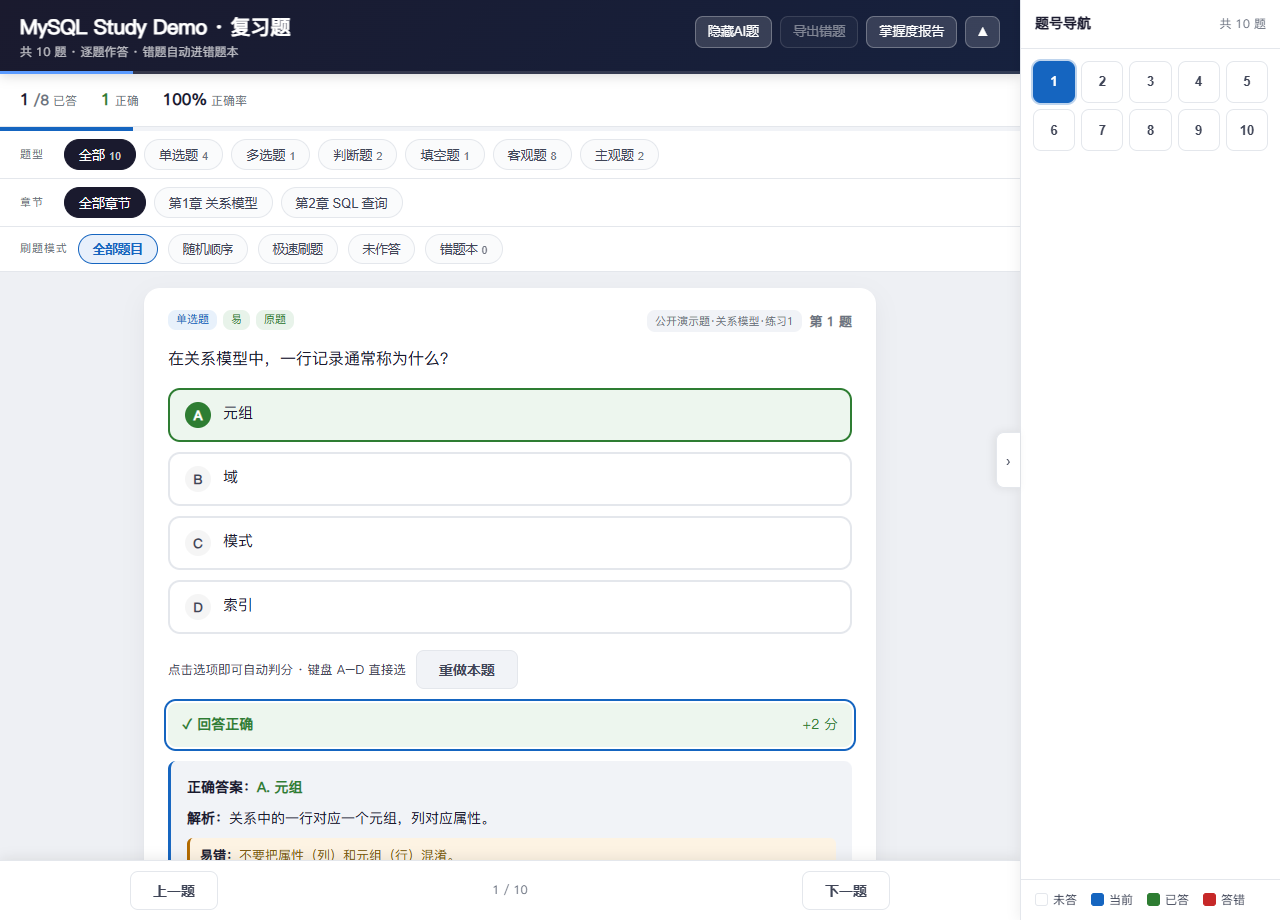
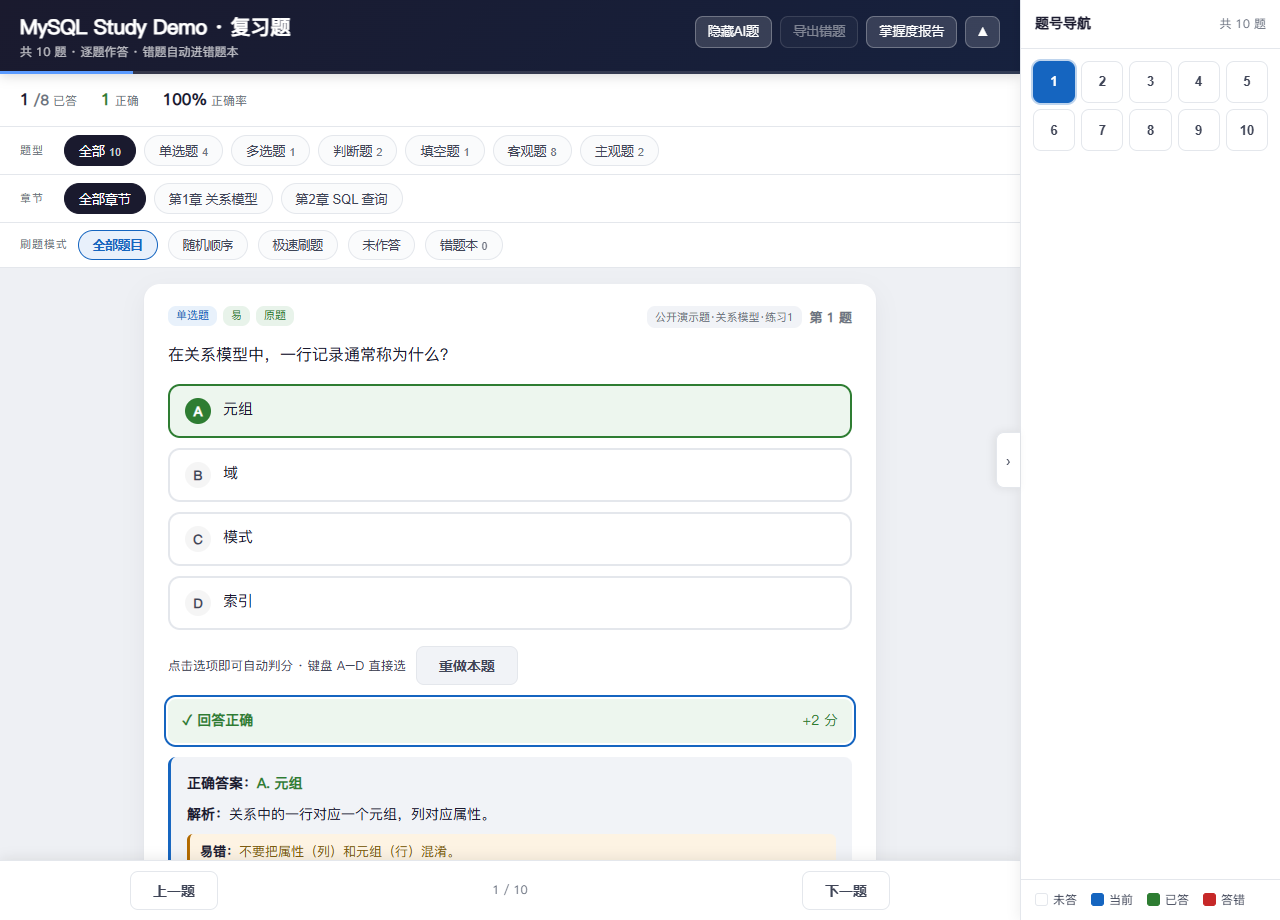
fix(quiz): 合并重复的做题进度线，只留顶栏底部那条常驻细线
统计条下方原本还有一条 4px 进度条，和本轮新加的 header 底部常驻细线表达同一份数据（已答/客观题总数），同屏出现两条线。
现在删掉统计条下方那条：header 细线滚动与折叠后都可见，信息量不丢，页面也少一条噪音线。

diff --git a/scripts/render_quiz.py b/scripts/render_quiz.py
@@ -142,10 +142,7 @@ body.fast .quiz-top { position: sticky; top: 0; z-index: 120; background: #fff; 
 .stat-item.clickable { cursor: pointer; border-radius: var(--r-sm); padding: 2px 6px; margin: -2px -6px; transition: background .14s var(--ease); }
 .stat-item.clickable:hover { background: var(--line-2); }
 
-/* ── 进度条 ── */
-.progress { height: 4px; background: var(--line-2); }
-.progress i { display: block; height: 100%; width: 0; background: var(--accent2); transition: width .24s var(--ease); }
-
+/* 做题进度只留顶栏底部那一条常驻细线（收起/滚动时也在），不再另设第二条进度条 */
 /* ── 筛选行（题型／章节）：左侧分组标签 + 右侧可横滚的胶囊条 ── */
 .nav-row { position: relative; display: flex; align-items: center; background: #fff; border-bottom: 1px solid var(--line); }
 .nav-label { flex: none; padding: 0 8px 0 20px; font-size: 11px; letter-spacing: .08em; color: var(--muted); }
@@ -735,7 +732,6 @@ def render(quiz: dict) -> str:
         '<div class="stat-item green zero"><span class="num" id="statRight">0</span><span class="lbl">正确</span></div>'
         '<div class="stat-item zero"><span class="num" id="statRate">—</span><span class="lbl">正确率</span></div>'
         '</div>',
-        f'<div class="progress"><i id="progressFill"></i></div>',
         f'<div class="nav-row"><span class="nav-label">题型</span><div class="nav">{"".join(type_tabs)}</div></div>',
         f'<div class="nav-row"><span class="nav-label">章节</span><div class="nav chapter-nav">{"".join(chapter_tabs)}</div></div>',
         '<div class="mode-bar">'
@@ -1164,7 +1160,6 @@ function updateStats(){
   var wc = document.getElementById('wrongCnt'); if(wc) wc.textContent = wrong;
   var eb = document.getElementById('exportWrongBtn'); if(eb) eb.disabled = (wrong===0);
   var pct = objTotal?Math.round(done/objTotal*100):0;
-  var pf = document.getElementById('progressFill'); if(pf) pf.style.width = pct + '%';
   var hp = document.getElementById('headerProgress'); if(hp) hp.style.width = pct + '%';
   paintPanelCells();
 }

diff --git a/SKILL.md b/SKILL.md
@@ -201,7 +201,7 @@ python <skill目录>/scripts/render_graph.py <资料目录>
 | 脚本 | 产物 | 内容 |
 |---|---|---|
 | render_outline.py | `<课程名>-知识清单.html` | Claude 式杂志感双栏：暖奶油纸底 + 单一珊瑚 accent，衬线大标题（Georgia）+ 无衬线正文；左 sticky sidebar（两级目录、滚动同步高亮 **且左栏自动滚到激活项**、可拖拽 180–560px、可折叠成 60px 章节色点导航）+ 右正文；正文宽度随右区可用宽度自适应（Ctrl+滚轮缩放不跳偏、不横向溢出）；章节标题 = 衬线编号 + 细分隔线（零大色块）；知识点挂四色**色点胶囊标签**（必考/重点/高频/了解，无 emoji）；**content 里的 **术语** 渲染为墨色加粗**；importance=must 知识点 = 珊瑚左细线 + 浅珊瑚底 + 左上角「必考考点」微标；顶部 sticky 阅读进度条 + 回顶按钮 + stagger reveal 动效；章末折叠自测（selftests）；右栏阅读区 GPT 式排版：正文 17px/行高 2.0、墨色正文，content 里的「；」并列要点自动拆成带圆点的逐条列表、段间明显留白，行内 code 用浅灰底等宽、代码块加大内边距 |
-| render_quiz.py | `<课程名>-复习题.html` | 刷题 App 风：深色 header（右上角 ▲/▼ 可折叠顶部栏）+ 统计条/进度条 + 题型 tab（固定 单选/多选/判断/填空/客观题/主观题，客观在前主观在后，0 道也占位；与章节行同用「题型/章节」分组标签，横向可滚且能滚时右缘渐隐提示）+ **章节 tab（显示真实章节名；questions.json 缺 label 时按 id 从 knowledge_skeleton 补齐，不再显示 ch1/ch2；章节名多放不下时鼠标滚轮可横向滚动、滚动条保持隐藏）** + 刷题模式（全部题目/随机顺序/极速刷题/未作答/错题本；**极速刷题**一次把当前筛选题目整页列出、下滑就地作答、顶栏常驻，不必点“下一题”）；单题视图逐题判对错、高亮答案、显示解析与易错点（单选/判断点选项即自动判分；**填空题空位兼容 `___` 与中文 `【】`，空位不足或题干没写空位时自动在题干下方补足输入框，使输入框数不少于答案数**）；做错的题自动进「错题本」可重刷、顶栏「导出错题」按钮可一键下载仅含错题的离线 HTML（受去AI影响，无错题时禁用；导出与打印均不含题号导航与重做按钮）；顶部深色栏右侧提供「隐藏AI题/恢复AI题/无AI题」三态切换（一键隐藏/恢复 AI 生成题）与「掌握度报告」入口；统计条为「已答 x/总数 · 正确 · 正确率」（点「已答」即打开掌握度报告；正确率未作答时显示 —，0 值转灰）；顶栏底部常驻一条完成度细线，顶栏折叠后标题下出现「题型 · 章节 · 模式」筛选摘要胶囊，滚动或收起后仍知道当前筛的是什么；主观题一键看参考答案、提交后显示蓝底「已记录，可对照下方参考答案」确认条（不判对错）；多选题作答区实时显示「已选 n 项」；未作答模式下答完一题即从列表移出（含主观题），答完最后一题显示「题目已全部作答」；答题后出现「重做本题」可撤销该题记录重新作答（错题本/未作答模式改对或撤销后列表自动重建）；每张卡答完结果条自动进入视野（不重复打扰）；「掌握度报告」按知识点聚合得分率标薄弱、以弹窗形式展示；**右侧可折叠「题号导航」答案卡**（列出去AI×题型×章节 命中的题并连续重编号 1..N，卡片「第 N 题」同步重排；四色状态：未答/当前/已答/答错 + 底部图例；点号跳到该题——错题本/未作答等模式不含该题时自动切回「全部题目」再跳，极速刷题模式滚动定位并高亮；PC 贴右常驻可折叠、展开时页面内容让位不遮挡，移动端右侧滑出抽屉 + 遮罩、点号跳转后自动收起；开合状态记入 localStorage）；题号格带 aria-label；选项支持 roving tabindex（方向键组内移焦点、Enter/Space 等同点击，aria-checked 同步）与字母/数字快捷键（A–H、1–9 直接选答，判断题另支持 T/F；单选/判断点完即判分，多选可连按切换）、填空输入框回车即提交；未作答就点提交时在题卡内就地提示（不再 alert 打断），单题视图不再在卡片与底部栏重复两个「提交答案」；空筛选显示标题 + 「清空筛选」出口；页面隐藏滚动条但保留滚动，并在滚动超过一屏后于右下角浮出「回到顶部」按钮（避开底部栏；PC 题号导航展开时自动让位，窄屏位于抽屉遮罩之下）；Ctrl+P 打印时全部题目+答案+解析展开、导出错题与打印均不含该面板 |
+| render_quiz.py | `<课程名>-复习题.html` | 刷题 App 风：深色 header（右上角 ▲/▼ 可折叠顶部栏）+ 统计条 + 题型 tab（做题进度全页只留 header 底部那一条常驻细线，不再另设第二条进度条）（固定 单选/多选/判断/填空/客观题/主观题，客观在前主观在后，0 道也占位；与章节行同用「题型/章节」分组标签，横向可滚且能滚时右缘渐隐提示）+ **章节 tab（显示真实章节名；questions.json 缺 label 时按 id 从 knowledge_skeleton 补齐，不再显示 ch1/ch2；章节名多放不下时鼠标滚轮可横向滚动、滚动条保持隐藏）** + 刷题模式（全部题目/随机顺序/极速刷题/未作答/错题本；**极速刷题**一次把当前筛选题目整页列出、下滑就地作答、顶栏常驻，不必点“下一题”）；单题视图逐题判对错、高亮答案、显示解析与易错点（单选/判断点选项即自动判分；**填空题空位兼容 `___` 与中文 `【】`，空位不足或题干没写空位时自动在题干下方补足输入框，使输入框数不少于答案数**）；做错的题自动进「错题本」可重刷、顶栏「导出错题」按钮可一键下载仅含错题的离线 HTML（受去AI影响，无错题时禁用；导出与打印均不含题号导航与重做按钮）；顶部深色栏右侧提供「隐藏AI题/恢复AI题/无AI题」三态切换（一键隐藏/恢复 AI 生成题）与「掌握度报告」入口；统计条为「已答 x/总数 · 正确 · 正确率」（点「已答」即打开掌握度报告；正确率未作答时显示 —，0 值转灰）；顶栏底部常驻一条完成度细线，顶栏折叠后标题下出现「题型 · 章节 · 模式」筛选摘要胶囊，滚动或收起后仍知道当前筛的是什么；主观题一键看参考答案、提交后显示蓝底「已记录，可对照下方参考答案」确认条（不判对错）；多选题作答区实时显示「已选 n 项」；未作答模式下答完一题即从列表移出（含主观题），答完最后一题显示「题目已全部作答」；答题后出现「重做本题」可撤销该题记录重新作答（错题本/未作答模式改对或撤销后列表自动重建）；每张卡答完结果条自动进入视野（不重复打扰）；「掌握度报告」按知识点聚合得分率标薄弱、以弹窗形式展示；**右侧可折叠「题号导航」答案卡**（列出去AI×题型×章节 命中的题并连续重编号 1..N，卡片「第 N 题」同步重排；四色状态：未答/当前/已答/答错 + 底部图例；点号跳到该题——错题本/未作答等模式不含该题时自动切回「全部题目」再跳，极速刷题模式滚动定位并高亮；PC 贴右常驻可折叠、展开时页面内容让位不遮挡，移动端右侧滑出抽屉 + 遮罩、点号跳转后自动收起；开合状态记入 localStorage）；题号格带 aria-label；选项支持 roving tabindex（方向键组内移焦点、Enter/Space 等同点击，aria-checked 同步）与字母/数字快捷键（A–H、1–9 直接选答，判断题另支持 T/F；单选/判断点完即判分，多选可连按切换）、填空输入框回车即提交；未作答就点提交时在题卡内就地提示（不再 alert 打断），单题视图不再在卡片与底部栏重复两个「提交答案」；空筛选显示标题 + 「清空筛选」出口；页面隐藏滚动条但保留滚动，并在滚动超过一屏后于右下角浮出「回到顶部」按钮（避开底部栏；PC 题号导航展开时自动让位，窄屏位于抽屉遮罩之下）；Ctrl+P 打印时全部题目+答案+解析展开、导出错题与打印均不含该面板 |
 | render_graph.py | `<课程名>-知识图谱.html` | Claude 式杂志感（与知识清单同源配色/字体），**两级放射 · 总览 + 点章展开**：暖奶油纸底 + 珊瑚 accent，居中 hero；图谱放进固定高度的圆角舞台（内容不把页面撑长），**总览 = 中央「课程」胶囊 + 一圈章节节点**（编号 + 标题，辐线连中心，一屏扫结构；**编号与标题首行共用基线、画在胶囊内**，常驻可见，聚焦某章时随该章一起变淡）；**点某章 → 该章知识点朝外展开成扇形**（章→知识点浅线 + 章内 `deps` 虚线依赖，`is_hub` 加 ★；画布自动放大聚焦到这一章，其余章节变淡），点空白/课程/再点同章回总览；知识点胶囊四色重要度（必考珊瑚/重点金棕/高频蓝灰/了解灰绿），悬停 tooltip 显示内容并去掉 markdown 加粗；拖拽平移、滚轮缩放、双指 pinch、按 0 回总览；知识点布局每章做去重叠排版，间距宽松；图谱区右上角有「全屏 / 退出全屏」按钮，方便整屏看图谱 |
 
 三份 HTML 均单文件、无外部 CDN 依赖（离线可开），可 Ctrl+P 打印为 PDF。
